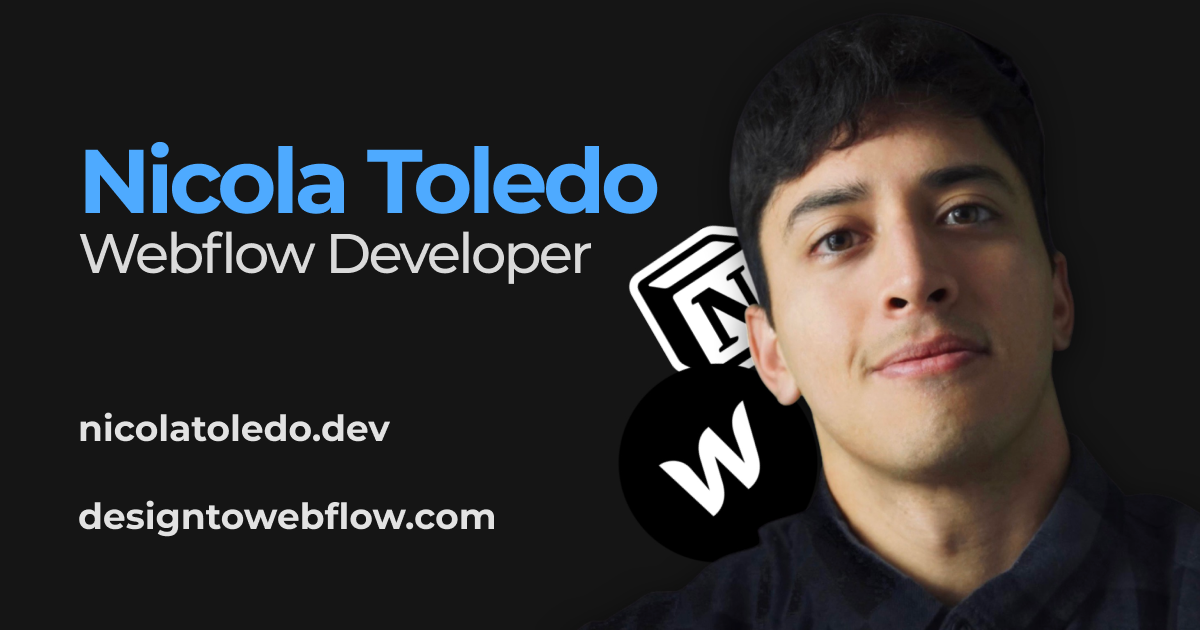
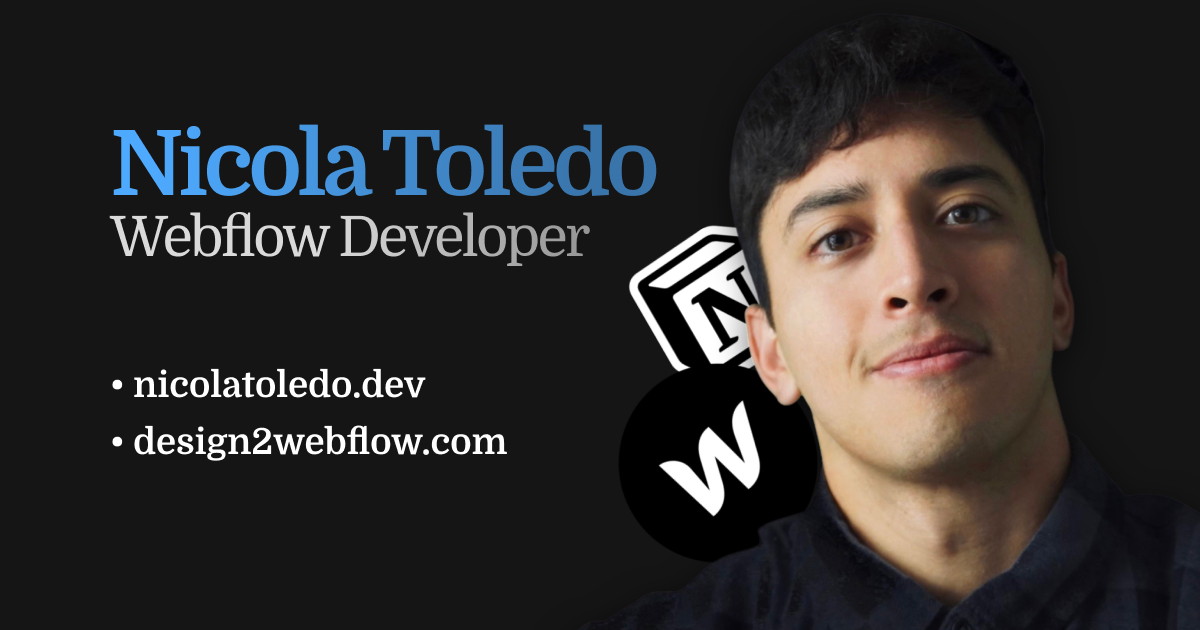
update seo img and title

diff --git a/next-seo.config.ts b/next-seo.config.ts
@@ -1,14 +1,14 @@
 import { NextSeoProps } from "next-seo";
 
 const conf: NextSeoProps = {
-  title:'Nicola Toledo | Developer & Trainer',
+  title:'Nicola Toledo | Webflow Developer',
   description:"I’ll turn your Figma, XD or Sketch file into a pixel-perfect Webflow Project ready to publish! 🚀",
   openGraph: {
     type: "website",
     locale: "it",
     url: "https://www.nicolatoledo.dev",
-    site_name: "Nicola Toledo | Developer & Trainer",
-    title: "Nicola Toledo | Developer & Trainer",
+    site_name: "Nicola Toledo | Webflow Developer",
+    title: "Nicola Toledo | Webflow Developer",
     images:[
       {
         url: 'https://www.nicolatoledo.dev/open-image.png',
